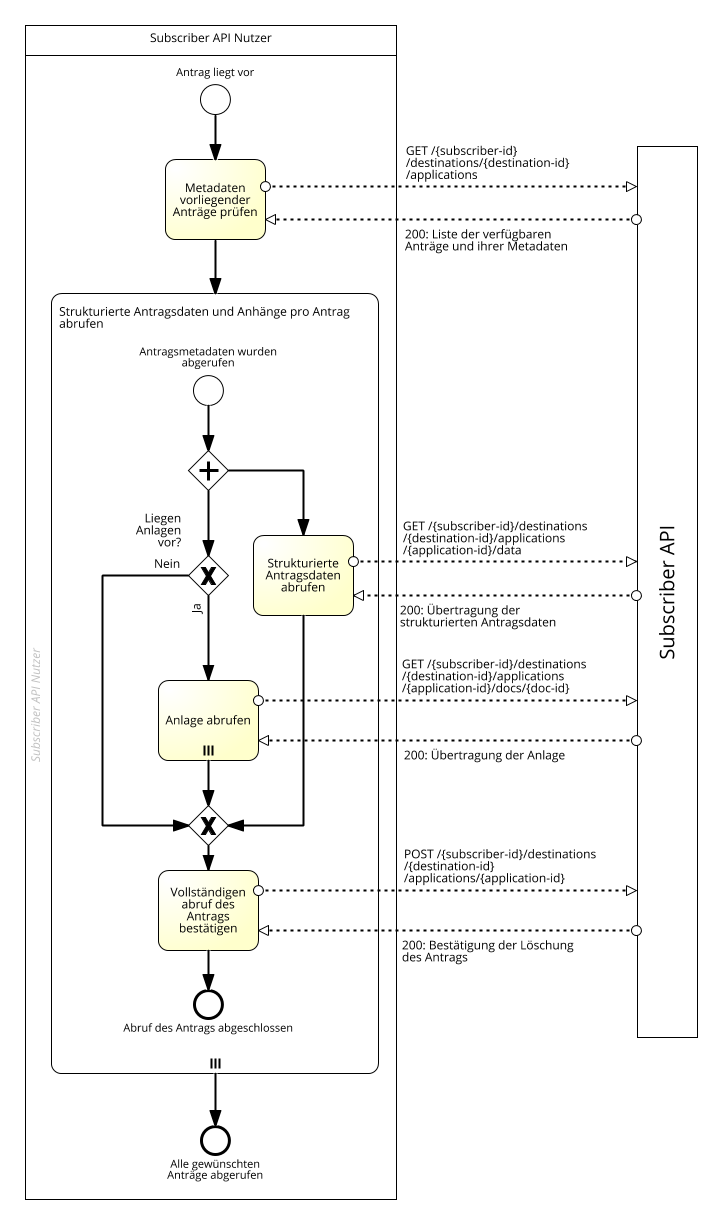
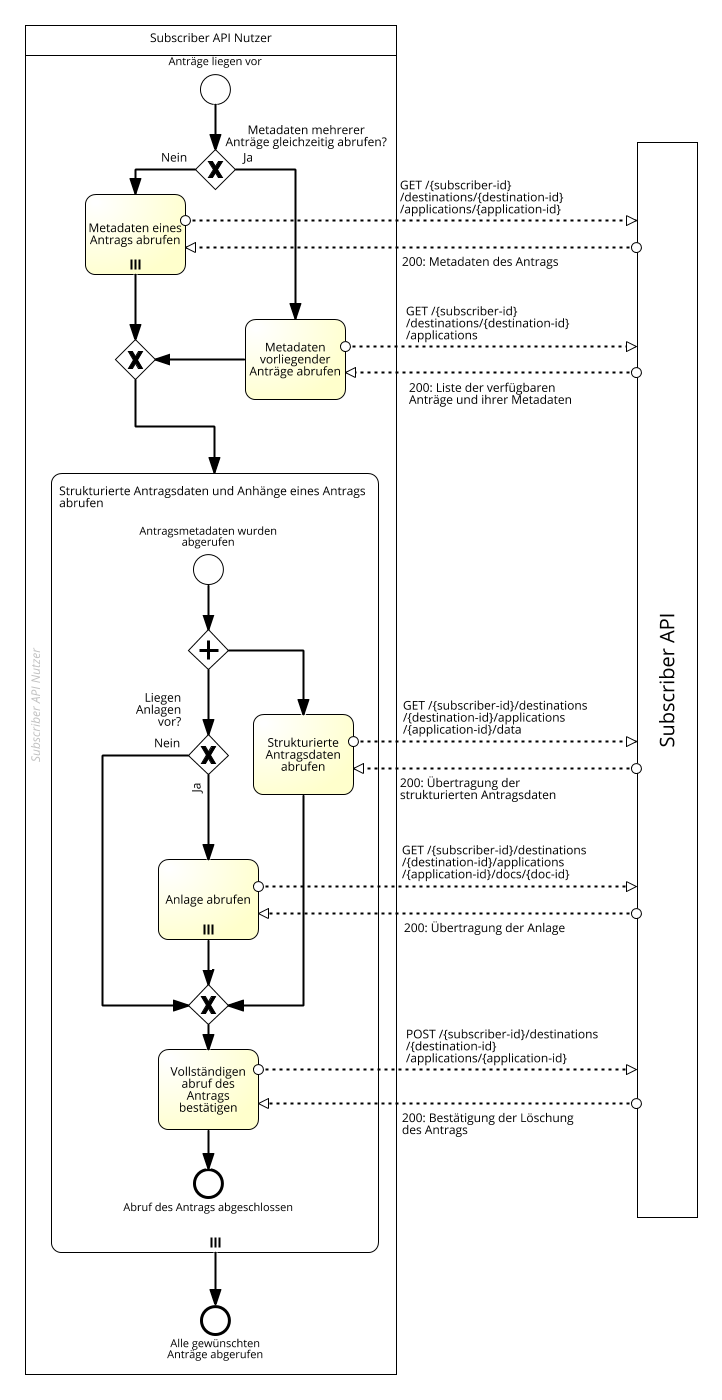
Anpassung der Bilder in der Dokumentation. Anpassung des API Keys in der Subscriber API.

diff --git a/docs/3_Use_Cases_der_API.md b/docs/3_Use_Cases_der_API.md
@@ -2,40 +2,7 @@
 
 ## Überblick über die Anwendungsfälle
 
-![Application_Transfer](https://raw.githubusercontent.com/fiep-poc/fiep-poc/documentation/assets/images/use_case_documentation/use_case_diagramm.png?token=AOHBJRMAJDMF7CQFPV476CK6Q5JGQ "Use Case Diagramm der XFall APIs")
-
-### Legende der verwendeten BPMN Symbole bei Anwendungsfallabläufen
-
-#### Start- und Endereignisse
-
-![Start_Event](https://raw.githubusercontent.com/fiep-poc/fiep-poc/documentation/assets/images/use_case_documentation/BPMN%20Legend/Start_Event.png?token=AOHBJRJO7W76D7Y76HKKTCK6Q2AXY "Startereignis")
-
-![End_Event](https://raw.githubusercontent.com/fiep-poc/fiep-poc/documentation/assets/images/use_case_documentation/BPMN%20Legend/End_Event.png?token=AOHBJRNQZR6WYHWTRLHOYJK6Q2A2A "Endereignis")
-
-Startet oder beendet einen Prozessablauf.
-
-#### Aktivität
-
-![Activity](https://raw.githubusercontent.com/fiep-poc/fiep-poc/documentation/assets/images/use_case_documentation/BPMN%20Legend/Activity.png?token=AOHBJRK2GNFYWQX5ARNV5FK6Q2A3I "Aktivität")
-
-Eine Tätigkeit innerhalb einer Prozessablaufs.
-
-#### Aktivität mit mehrfachen parallelen Instanzen
-
-![Activity_Multi_Instance](https://raw.githubusercontent.com/fiep-poc/fiep-poc/documentation/assets/images/use_case_documentation/BPMN%20Legend/Activity_Multi_Instance.png?token=AOHBJRKPLT5SRL5UEAQN6AK6Q2A7C "Aktivität mit mehrfachen parallelen Instanzen")
-
-Eine Tätigkeit innerhalb einer Prozessablaufs, die ab dem aktivierungszeitpunkt mehrfach parallel durchgeführt werden kann.
-
-#### Exclusive Gateway
-
-![Exclusive Gateway](https://raw.githubusercontent.com/fiep-poc/fiep-poc/documentation/assets/images/use_case_documentation/BPMN%20Legend/Exclusive%20Gateway.png?token=AOHBJROAOER2HJJMMVEUHXC6Q2BEE "Exklusives Gateway")
-
-Ein Entscheidungspunkt innerhalb des Prozessablaufs im Sinne einer ODER Entscheidung. Es wird nur der weitere Prozessablauf weiterverfolgt, der dem Entscheidungsergebnis entspricht.
-#### Parallel Gateway
-
-![Parallel Gateway](https://raw.githubusercontent.com/fiep-poc/fiep-poc/documentation/assets/images/use_case_documentation/BPMN%20Legend/Parallel_Gateway.png?token=AOHBJRPFM2PJY37LHW3F7W26Q2BLQ "Paralleles Gateway")
-
-Parallelisierungspunkt innerhalb des Prozessablauf. Prozessflüsse nach dem parallelen Gateway parallel durchgeführt.
+![Application_Transfer](https://raw.githubusercontent.com/fiep-poc/assets/master/images/use_case_documentation/use_case_diagramm.png "Use Case Diagramm der XFall APIs")
 
 ## Anwendungsfälle für den Sender
 
@@ -47,7 +14,7 @@ Parallelisierungspunkt innerhalb des Prozessablauf. Prozessflüsse nach dem para
 
 **Beschreibung:** Der Sender überträgt mittels eines POST Request die Metadaten des Antrags an die Sender API und legt die `application` (Antrag) als Ressource an. Hierfür bekommt der Sender durch die API eine eindeutige `application-id`in der Response zugeteilt. Zudem werden alle weiteren zu übermittelnden Antragsbestandteile (`data`, `document`) auf Basis der Angaben in den Metadaten als Subressourcen angelegt und sind durch die `doc-id` aus den Metadaten adressierbar. Für diese Subressourcen überträgt der Sender die Inhalte per PUT. Nach Übermittlung aller Antragsbestandteile wird durch einen POST auf die `application` die vollständige Übertragung des Antrags bestätigt und damit der Antrag den Abholbereich des Zustellpunkts übermittelt.
 
-![Application_Transfer](https://raw.githubusercontent.com/fiep-poc/fiep-poc/documentation/assets/images/use_case_documentation/application_transfer.png?token=AOHBJRN3LGOYVXIHTXPH7L26QZ5US "Ablaufbeschreibung zur Uebertragung eines Antrags")
+![Application_Transfer](https://raw.githubusercontent.com/fiep-poc/assets/master/images/use_case_documentation/application_transfer.png "Ablaufbeschreibung zur Uebertragung eines Antrags")
 
 ### Zustellstatus des abgegebenen Antrags abrufen
 
@@ -83,4 +50,37 @@ Parallelisierungspunkt innerhalb des Prozessablauf. Prozessflüsse nach dem para
 
 **Beschreibung:** Zunächst ruft der Subscriber alle Metadaten der vorliegenden Anträge ab. Als nächsten Schritt ruft der Subscriber die Fachdaten (`data`) sowie basierend auf den Angaben der Metadaten alle  Anlagen (`document`) des Antrag ab. Falls der Subscriber den vollständigen Antrag oder alle relevanten Bestandteile abgerufen hat, bestätigt er den vollständigen Abruf. Dieser hat zur Folge, dass innerhalb einer definierten zeitlichen Frist der Antrag unwiederruflich gelöscht wird. 
 
-![Application_Retrieval](https://raw.githubusercontent.com/fiep-poc/fiep-poc/documentation/assets/images/use_case_documentation/application_retrieval.png?token=AOHBJRPQTU2PPJR6XRA6X4C6QZ5IW "Ablaufbeschreibung zum Abruf eines Antrags")
+![Application_Retrieval](https://raw.githubusercontent.com/fiep-poc/assets/master/images/use_case_documentation/application_retrieval.png "Ablaufbeschreibung zum Abruf eines Antrags")
+
+### Legende der verwendeten BPMN Symbole
+
+#### Start- und Endereignisse
+
+![Start_Event](https://raw.githubusercontent.com/fiep-poc/assets/master/images/use_case_documentation/BPMN%20Legend/Start_Event.png "Startereignis")
+
+![End_Event](https://raw.githubusercontent.com/fiep-poc/assets/master/images/use_case_documentation/BPMN%20Legend/End_Event.png "Endereignis")
+
+Startet oder beendet einen Prozessablauf.
+
+#### Aktivität
+
+![Activity](https://raw.githubusercontent.com/fiep-poc/assets/master/images/use_case_documentation/BPMN%20Legend/Activity.png "Aktivität")
+
+Eine Tätigkeit innerhalb einer Prozessablaufs.
+
+#### Aktivität mit mehrfachen parallelen Instanzen
+
+![Activity_Multi_Instance](https://raw.githubusercontent.com/fiep-poc/assets/master/images/use_case_documentation/BPMN%20Legend/Activity_Multi_Instance.png "Aktivität mit mehrfachen parallelen Instanzen")
+
+Eine Tätigkeit innerhalb einer Prozessablaufs, die ab dem aktivierungszeitpunkt mehrfach parallel durchgeführt werden kann.
+
+#### Exclusive Gateway
+
+![Exclusive Gateway](https://raw.githubusercontent.com/fiep-poc/assets/master/images/use_case_documentation/BPMN%20Legend/Exclusive%20Gateway.png "Exklusives Gateway")
+
+Ein Entscheidungspunkt innerhalb des Prozessablaufs im Sinne einer ODER Entscheidung. Es wird nur der weitere Prozessablauf weiterverfolgt, der dem Entscheidungsergebnis entspricht.
+#### Parallel Gateway
+
+![Parallel Gateway](https://raw.githubusercontent.com/fiep-poc/assets/master/images/use_case_documentation/BPMN%20Legend/Parallel_Gateway.png "Paralleles Gateway")
+
+Parallelisierungspunkt innerhalb des Prozessablauf. Prozessflüsse nach dem parallelen Gateway parallel durchgeführt.

diff --git a/docs/README.md b/docs/README.md
@@ -36,7 +36,7 @@ Die föderale Integrations- und Entwicklungsplattform folgt einem offenen Plattf
 
 Die föderale Integrations- und Entwicklungsplattform ist dabei ganz bewusst nicht als zentralischer Ansatz zu sehen, sondern als ein föderaler Ansatz, der die Stärken des Föderalismus und der sozialen Markwirtschaft zum Tragen kommen lässt.
 
-![FIEP_Strategic_Vision](https://raw.githubusercontent.com/fiep-poc/fiep-poc/develop/assets/images/api_overview/FIEP_strategic_vision.png?token=AOHBJRMFXOHXXYUFKVCPVNC6Q5KM6 "Vision der föderalen Integrations- und Entwicklungsplattform")
+![FIEP_Strategic_Vision](https://raw.githubusercontent.com/fiep-poc/assets/master/images/api_overview/FIEP_strategic_vision.png "Vision der föderalen Integrations- und Entwicklungsplattform")
 
 ### Wozu dient der Proof of Concept?
 
@@ -48,7 +48,7 @@ Bei einem positiven Ergebnis des PoC wird angestrebt, die föderale Integrations
 
 ### Überblick PoC-Integrationsarchitektur
 
-![PoC_Integrationarchitecture]( "Integrationsarchitektur für den PoC")
+![PoC_Integrationarchitecture](https://raw.githubusercontent.com/fiep-poc/assets/master/images/api_overview/PoC_integrationarchitecture.jpg "Integrationsarchitektur für den PoC")
 
 Für den PoC werden zwei zentrale Komponenten bereitgestellt:
 - **XFall-Zustelldienst:** Dieser Dienst stellt die `Application Sender API` und `Application Subscriber API` und die dahinter liegenden fachlichen Funktionen bereit.
@@ -61,7 +61,9 @@ Diese `destination-id` wird im Rahmen des PoC mit der Antragssenderseite bilater
 Die Integrationsarchitektur wird im Rahmen des PoC um einige zentrale Aspekte vereinfacht, die für die zukünftige Integrationsarchitektur fest eingeplant sind:
 - **Nutzung von Zuständigkeitsfindern:** Langfristig ist angedacht, die `destination-id` über die bestehenden und etablierten Zuständigkeitsfindern von Bund und Ländern und deren Redaktionsprozesse zu veröffentlichen. Damit steht ein skalierbarer Ansatz bereit, bei dem Antragsdienste in Echtzeit während der Antragsstellung die `destination-id` der fachlich und örtlich zuständigen Stelle beim einem Zuständigkeitsfinder ermitteln können. Durch diesen Ansatz sind keine aufwendigen bilateralen Absprachen in der Entwicklung mehr notwendig, sondern die Antragsdienste können einen universellen zuständigkeitsbasierten Ansatz auf Basis föderaler Basisinfrastukturen nutzen!
 
-![FIEP_Strategic_Vision](https://raw.githubusercontent.com/fiep-poc/fiep-poc/develop/assets/images/api_overview/FIEP_strategic_vision.png?token=AOHBJRMFXOHXXYUFKVCPVNC6Q5KM6 "Vision der föderalen Integrations- und Entwicklungsplattform")
+![destination-id_publishing_jurisdiction-finder](https://raw.githubusercontent.com/fiep-poc/fiep-poc/develop/assets/images/api_overview/destination-id_publishing_jurisdiction-finder.png?token=AOHBJRJFNZQDZFRNM25AFSS6RMN2C "Redaktionsprozess zur Veröffentlichung einer Destination-ID in einem Zuständigkeitsfinder")
 
 - **Standardisierte XTA-Einbindung:** Mit XTA steht ein in vielen Teilen der Verwaltung etablierter Standard bereit, um standardisiert Transportverfahren anzubinden, welche die eigentliche Übertragung von Fachdaten über diverse Protokolle und Kommunikationsinfrastrukturen für das Fachverfahren übernehmen. Während es schon im PoC prinzipiell möglich sein sollte, technische Intermedäre für die XFall RESTful API Anbindung per XTA-SOAP Webservice anzusprechen, wird zukünftig eine vollumfängliche Unterstützung alle XTA Bestandteile (wie bspw. Reports) angestrebt.
 - **Anbindung von Servicekonten und Antragsmanagementkomponenten:** Zukünftig soll der XFall-Zustelldienst alle antragsrelevenaten Daten (Kopien der Antragsdaten und Statusinformationen) bei definierten Ereignissen (Abgabe beim Zustelldienst und Abholung am Zustellpunkt) in den Hohheitsbereich des Antragsstellers übermitteln und damit Antragsdienst und Fachverfahren von dieser Querschnittsaufgabe entlasten. Hierfür ist angedacht, die zukünftig verfügbaren interoperablen Postfächer als standardisierten Übertragsweg in den Hohheitsbereich des Antragsstellers zu nutzen.
+
+![future_integrationarchitecture](https://raw.githubusercontent.com/fiep-poc/assets/master/images/api_overview/future_integrationarchitecture.jpg "Zielvision Integrationsarchitektur für die Antragsstellung")

diff --git a/docs/2_Quick_Reference.md b/docs/2_Quick_Reference.md
@@ -2,7 +2,7 @@
 
 ## Der XFall Antrag
 
-![application_structure](https://raw.githubusercontent.com/fiep-poc/fiep-poc/documentation/assets/images/quick_reference/application_structure.png?token=AOHBJROKKDX4MECV4WW6IKC6Q4ZYS "Struktur des XFall Antrags")
+![application_structure](https://raw.githubusercontent.com/fiep-poc/assets/master/images/quick_reference/application_structure.png "Struktur des XFall Antrags")
 
 Der XFall Antrag (`application`) ist das zentrale Geschäftsobjekt in der XFall API. Dieser besteht aus den Fachdaten (`data`) und den beigefügten Anhängen (`document`) und wird über Metadaten beschrieben.
 
@@ -54,7 +54,7 @@ Darüber hinaus stehen dem Sender folgende weitere Operationen zur Verfügung:
 
 ## Operation derApplication Subscriber API
 
-Mit diesen Operationen kann der Subscriber Zustellpunkte (`Destinations`) verwalten:
+Mit diesen Operationen kann der Subscriber einer oder mehrere Zustellpunkte (`Destinations`) verwalten:
 - [Create Destination](../reference/subscriber.json/paths/~1{subscriber-id}~1destinations/post) - Legt ein neues Übertragungsziel (Destination) an.
 - [List Destinations](../reference/subscriber.json/paths/~1{subscriber-id}~1destinations/get) - Listet alle Übertragungsziele (Destinations) eines Subscribers auf.
 - [Get Destination](../reference/subscriber.json/paths/~1{subscriber-id}~1destinations~1{destination-id}/get) - Ruf die Daten eines Übertragungsziels (Destination) ab.
